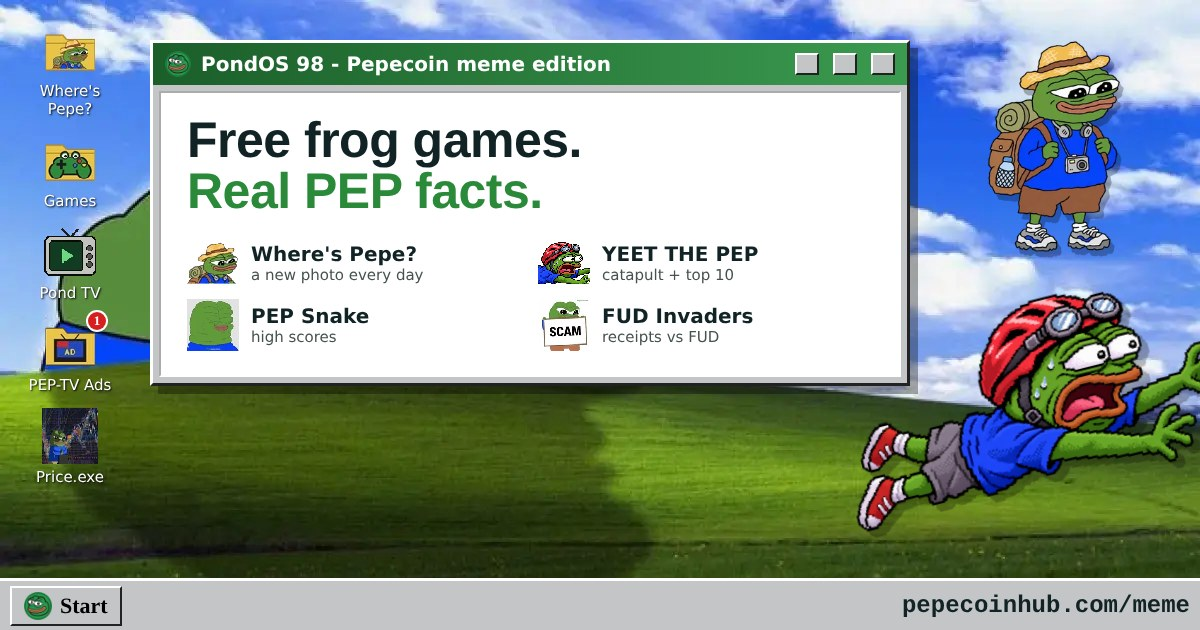
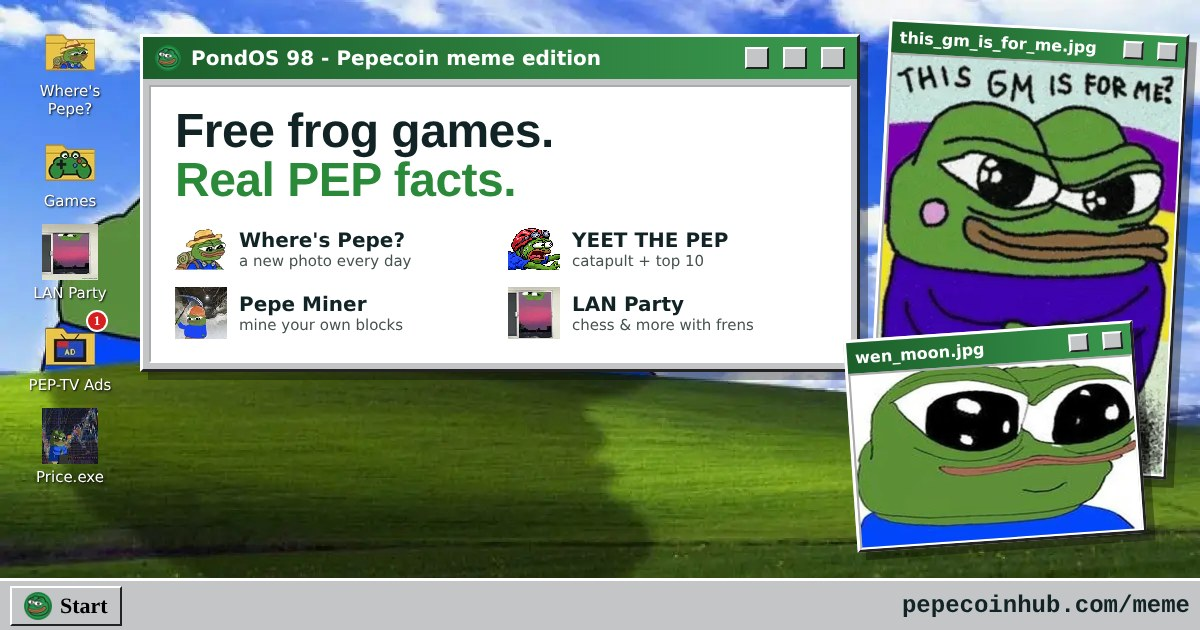
PondOS: memier link preview, top 10 for everyone, Share copies the picture
- link preview: Where's Pepe?, YEET THE PEP, Pepe Miner and LAN Party, with two classic Pepe memes
- score tables (High Scores, Where's Pepe?): Discord players in bold with a small frog, guests in grey,
  with a line that invites to log on
- Where's Pepe? top 10 includes guests (SQL update_wheres_pepe_top_all.sql; guests count once per network)
- YEET THE PEP Share on a computer copies the picture to the clipboard (Ctrl+V in Discord or X);
  saving a file is only the last resort

Claude-Session: https://claude.ai/code/session_01JotvcxFDwTkPbjxt4AqZ4V

diff --git a/docs/meme/meme.js b/docs/meme/meme.js
@@ -1142,16 +1142,24 @@
       }, function (err) { btn.disabled = false; btn.textContent = 'Submit score'; box.querySelector('.hs-err') ? box.querySelector('.hs-err').textContent = err.message : box.appendChild(el('span', { class: 'hs-err' }, esc(err.message))); });
     });
   }
+  // names in score tables: Discord players in bold with a small frog, guests in grey (to make logging on worth it)
+  function who(nick, verified) {
+    return verified ? '<b class="who who-ok" title="Discord player"><img src="img/pep-logo.webp" alt="" width="14" height="14">' + esc(nick) + '</b>'
+      : '<span class="who who-guest" title="Guest">' + esc(nick) + '</span>';
+  }
+  function whoLegend() { return '<p class="who-legend"><b class="who who-ok"><img src="img/pep-logo.webp" alt="" width="14" height="14">Bold</b> = Discord player · <span class="who-guest">grey</span> = guest. <a href="#" class="who-logon">Log on with Discord</a> to get the frog.</p>'; }
+  function wireLegend(box) { var a = box.querySelector('.who-logon'); if (a) a.addEventListener('click', function (e) { e.preventDefault(); logOn(); }); }
   function highScores(game) {
     var A = openApp('hs', 'High Scores', 'gif-061-still', function (A) {
       A.body.innerHTML = '<div class="app-row hs-tabs" role="tablist"><button type="button" class="app-btn" data-g="fud" role="tab">FUD Invaders</button><button type="button" class="app-btn" data-g="snake" role="tab">PEP Snake</button></div>' +
-        '<ol class="bin-list hs-list"><li>Loading…</li></ol><p class="bin-tip">Top 10, best score per player. <span class="hs-ok">✓</span> = signed in with Discord on PEP Games. Scores run in your browser, so the server checks them for plausibility and rate.</p>';
+        '<ol class="bin-list hs-list"><li>Loading…</li></ol>' + whoLegend() + '<p class="bin-tip">Top 10, best score per player. Scores run in your browser, so the server checks them for plausibility and rate.</p>';
+      wireLegend(A.body);
       A.load = function (g) {
         A.game = g;
         A.body.querySelectorAll('[data-g]').forEach(function (b) { b.setAttribute('aria-pressed', String(b.getAttribute('data-g') === g)); });
         var ol = A.body.querySelector('.hs-list'); ol.innerHTML = '<li>Loading…</li>';
         rpc('gry_arcade_top', { p_game: g }).then(function (rows) {
-          ol.innerHTML = rows && rows.length ? rows.map(function (r, i) { return '<li><span>' + (i + 1) + '.</span><span>' + esc(r.nick) + (r.verified ? ' <span class="hs-ok" title="Verified with Discord">✓</span>' : '') + '</span><small>' + fmt.int(r.score) + (g === 'snake' ? ' blocks' : '') + '</small></li>'; }).join('')
+          ol.innerHTML = rows && rows.length ? rows.map(function (r, i) { return '<li><span>' + (i + 1) + '.</span><span>' + who(r.nick, r.verified) + '</span><small>' + fmt.int(r.score) + (g === 'snake' ? ' blocks' : '') + '</small></li>'; }).join('')
             : '<li><span></span><span>No scores yet. Be the first frog.</span><small></small></li>';
         }, function (err) { ol.innerHTML = '<li><span></span><span>' + esc(err.message) + '</span><small></small></li>'; });
       };
@@ -1463,7 +1471,8 @@
     'Play every day to grow your streak (the fire badge).',
     '',
     '== RANKING ==',
-    'Today and the last 7 days, Discord players only.',
+    'Today and the last 7 days, everyone. Discord players: bold with a frog.',
+    'Guests: grey, one per network.',
     'Under it: how many frens played today.',
     '',
     '== PEP FAUCET (free PEP) ==',
@@ -1601,7 +1610,7 @@
           '<p>Pepe sent a new photo. Where is he? You have <b>2 minutes</b> and <b>one guess</b>. The faster, the more points: 5000 in the first minute, then the continent and the flag show up and the maximum drops.</p>' +
           '<p class="wp-small">Leaving the tab during the guess: one warning, then −1000 each time.</p>' +
           (T.signed_in ? '<div class="app-row"><button type="button" class="app-btn wp-start go">▶ Start</button><button type="button" class="app-btn wp-readme">README.TXT</button>' + hostBtn() + '</div>' +
-              (T.verified ? '' : '<p class="wp-small">Playing as a guest (' + esc(me ? me.name : 'guest') + '). <a href="#" class="wp-logon">Log on with Discord</a> for the ranking and bigger PEP rewards.</p>')
+              (T.verified ? '' : '<p class="wp-small">Playing as a guest (' + esc(me ? me.name : 'guest') + '). <a href="#" class="wp-logon">Log on with Discord</a> for a bold name with a frog in the ranking and bigger PEP rewards.</p>')
             : '<div class="app-row"><button type="button" class="app-btn wp-start go">▶ Start</button><button type="button" class="app-btn wp-readme">README.TXT</button></div><p class="wp-small">No account needed: Start makes a guest player for you (after a quick bot check). Or <a href="#" class="wp-logon">log on with Discord</a> for the ranking and bigger PEP rewards.</p>') +
           '<div class="wp-board"></div></div></div>';
         var s = main.querySelector('.wp-start'); if (s) s.addEventListener('click', start);
@@ -1762,12 +1771,13 @@
       };
       var board = function (box) {
         if (!box) return;
-        box.innerHTML = '<div class="tabs98 wp-tabs" role="tablist"><button type="button" role="tab" aria-selected="true" data-s="day">Today</button><button type="button" role="tab" aria-selected="false" data-s="week">7 days</button></div><ol class="wp-top10"><li class="wp-small">Loading…</li></ol>';
+        box.innerHTML = '<div class="tabs98 wp-tabs" role="tablist"><button type="button" role="tab" aria-selected="true" data-s="day">Today</button><button type="button" role="tab" aria-selected="false" data-s="week">7 days</button></div><ol class="wp-top10"><li class="wp-small">Loading…</li></ol>' + whoLegend();
+        wireLegend(box);
         var ol = box.querySelector('ol');
         var show = function (s) {
           box.querySelectorAll('[data-s]').forEach(function (b) { b.setAttribute('aria-selected', String(b.getAttribute('data-s') === s)); });
           wpRpc('gry_wp_top', { p_scope: s }).then(function (rows) {
-            ol.innerHTML = rows.length ? rows.map(function (x) { return '<li><span>' + esc(x.nick) + ' <span class="hs-ok" title="Verified with Discord">✓</span></span><b>' + Number(x.points).toLocaleString('en-US') + '</b></li>'; }).join('')
+            ol.innerHTML = rows.length ? rows.map(function (x) { return '<li><span>' + who(x.nick, x.verified !== false) + '</span><b>' + Number(x.points).toLocaleString('en-US') + '</b></li>'; }).join('')
               : '<li class="wp-small">Nobody yet. Be the first!</li>';
           }, function () { ol.innerHTML = '<li class="wp-small">The ranking could not be loaded.</li>'; });
         };
@@ -1775,7 +1785,7 @@
         show('day');
         var cnt = document.createElement('p'); cnt.className = 'wp-small wp-count'; box.appendChild(cnt);
         wpRpc('gry_wp_count').then(function (c) {
-          if (c && c.players) cnt.textContent = '🐸 ' + c.players + (c.players === 1 ? ' player' : ' players') + ' today (' + c.discord + ' on Discord, the ranking shows Discord players)';
+          if (c && c.players) cnt.textContent = '🐸 ' + c.players + (c.players === 1 ? ' player' : ' players') + ' today (' + c.discord + ' on Discord)';
         }, function () {});
       };
       // leaving the tab during a guess (a short blink under 2 s, like a notification, does not count)

diff --git a/docs/meme/meme.css b/docs/meme/meme.css
@@ -1224,7 +1224,7 @@ footer.foot a { color: #edf3e3; }
 .wp-tabs { margin-top: 4px; }
 .wp-top10 { margin: 0; padding: 6px 8px 6px 28px; background: #fff; color: #000; box-shadow: inset 1px 1px 0 var(--chrome-lo), inset -1px -1px 0 var(--chrome-hi); }
 .wp-top10 li { padding: 2px 0; }
-.wp-top10 li span + b, .wp-top10 li b { float: right; font-variant-numeric: tabular-nums; }
+.wp-top10 li > b { float: right; font-variant-numeric: tabular-nums; }
 .wp-queue, .wp-claims, .wp-paidlist { margin: 0; padding: 0; list-style: none; display: grid; gap: 8px; }
 .wp-queue li, .wp-claims li { display: grid; grid-template-columns: auto minmax(0, 1fr) auto; gap: 6px 10px; align-items: center; padding: 8px; background: #fff; color: #000; }
 .wp-claims li { grid-template-columns: minmax(0, 1fr) auto; }
@@ -1299,3 +1299,11 @@ footer.foot a { color: #edf3e3; }
 .ads-folder button.is-new::after { content: ''; position: absolute; top: 2px; right: 50%; margin-right: -26px; width: 12px; height: 12px; border-radius: 50%; background: #d61f1f; box-shadow: 0 0 0 1.5px #fff; }
 /* "show desktop" keeps the icons standing on the taskbar, as they do with the window open */
 @media (min-width: 1101px) { .pondos.desk-view body .desk, .pondos.desk-empty body .desk { display: flex !important; } }
+/* score tables: Discord players bold with a frog, guests grey */
+.who { display: inline-flex; align-items: center; gap: 4px; max-width: 100%; overflow: hidden; text-overflow: ellipsis; white-space: nowrap; vertical-align: bottom; }
+.who img { flex: none; width: 14px; height: 14px; }
+.who-ok { font-weight: 700; color: inherit; }
+.who-guest { color: #858b90; font-weight: 400; }
+.who-legend { margin: 4px 0 0; font-size: 11px; color: #4a5357; }
+.who-legend a { color: inherit; }
+.wp-top10 li span .who, .hs-list .who { float: none; }

diff --git a/docs/meme/index.html b/docs/meme/index.html
@@ -15,14 +15,14 @@
 <meta property="og:image" content="https://pepecoinhub.com/assets/og-meme-2.jpg">
 <meta property="og:image:width" content="1200">
 <meta property="og:image:height" content="630">
-<meta property="og:image:alt" content="PondOS 98: free frog games (Where's Pepe?, YEET THE PEP, PEP Snake, FUD Invaders) and real PEP facts">
+<meta property="og:image:alt" content="PondOS 98: free frog games (Where's Pepe?, YEET THE PEP, Pepe Miner, LAN Party), Pepe memes and real PEP facts">
 <meta name="twitter:image" content="https://pepecoinhub.com/assets/og-meme-2.jpg">
 <meta name="twitter:card" content="summary_large_image">
 <link rel="icon" href="img/icon.svg" type="image/svg+xml">
 <link rel="preconnect" href="https://fonts.googleapis.com">
 <link rel="preconnect" href="https://fonts.gstatic.com" crossorigin>
 <link rel="stylesheet" href="https://fonts.googleapis.com/css2?family=Figtree:ital,wght@0,400;0,600;0,700;1,400&family=Space+Mono:wght@400;700&family=VT323&display=swap">
-<link rel="stylesheet" href="meme.css?v=20261103arc">
+<link rel="stylesheet" href="meme.css?v=20261103who">
 <script>try{var th=localStorage.getItem('phw-theme');if(th==='light'||th==='dark')document.documentElement.setAttribute('data-theme',th)}catch(e){}</script>
 <script data-goatcounter="https://pepecoinhub.goatcounter.com/count" async src="https://gc.zgo.at/count.js"></script>
 </head>
@@ -296,7 +296,7 @@
 
 <footer class="foot"></footer>
 <script src="../prices.js?v=20261031data1"></script>
-<script src="meme.js?v=20261103arc"></script>
+<script src="meme.js?v=20261103who"></script>
 <script>
 (function () {
   var M = window.Meme, f = M.fmt;

diff --git a/docs/games/yeet.html b/docs/games/yeet.html
@@ -5,7 +5,7 @@
 <meta name="referrer" content="strict-origin-when-cross-origin"><title>YEET THE PEP: retro frog-launching arcade | Pepecoin Hub</title>
 <meta name="description" content="Launch Pepe, catch a trampoline and panic-flap your way to a new record. Free retro arcade game with Discord records and an all-time top 10.">
 <link rel="canonical" href="https://pepecoinhub.com/games/yeet.html"><link rel="icon" href="../meme/img/pep-logo.webp">
-<link rel="stylesheet" href="yeet.css?v=20261102c"><script src="js/config.js"></script><script type="module" src="js/yeet.mjs?v=20261103s"></script>
+<link rel="stylesheet" href="yeet.css?v=20261102c"><script src="js/config.js"></script><script type="module" src="js/yeet.mjs?v=20261103c"></script>
 </head><body>
 <header class="site-bar"><a href="../meme/">← Pepecoin Hub</a><span>FREN SOFTWARE · EST. SOME TIME AGO</span><a href="index.html">More games ↗</a></header>
 <main class="desktop"><div class="desktop-label"><span class="logo">YEET THE PEP<span>THE UNOFFICIAL SPACE PROGRAM</span></span><span class="disk-label">100% FREEWARE<br>0% AEROSPACE QUALIFICATIONS</span></div>

diff --git a/docs/meme/mining.html b/docs/meme/mining.html
@@ -10,7 +10,7 @@
 <link rel="preconnect" href="https://fonts.googleapis.com">
 <link rel="preconnect" href="https://fonts.gstatic.com" crossorigin>
 <link rel="stylesheet" href="https://fonts.googleapis.com/css2?family=Figtree:ital,wght@0,400;0,600;0,700;1,400&family=Space+Mono:wght@400;700&family=VT323&display=swap">
-<link rel="stylesheet" href="meme.css?v=20261103arc">
+<link rel="stylesheet" href="meme.css?v=20261103who">
 <style>
 .coin-chips { list-style: none; padding: 0; display: flex; flex-wrap: wrap; gap: 10px; }
 .coin-chips li { display: inline-flex; align-items: center; gap: 8px; padding: 6px 12px 6px 6px; border: 2.5px solid var(--line); border-radius: 999px; background: var(--card); font-weight: 700; box-shadow: 3px 3px 0 var(--hard); }
@@ -213,7 +213,7 @@
 
 <footer class="foot"></footer>
 <script src="../prices.js?v=20261031data1"></script>
-<script src="meme.js?v=20261103arc"></script>
+<script src="meme.js?v=20261103who"></script>
 <script>
 (function () {
   // same arithmetic as the serious page (mining-calc.js): share of the network hashrate x blocks a day x 10,000 PEP, minus the pool fee

diff --git a/docs/meme/which-pepecoin.html b/docs/meme/which-pepecoin.html
@@ -10,7 +10,7 @@
 <link rel="preconnect" href="https://fonts.googleapis.com">
 <link rel="preconnect" href="https://fonts.gstatic.com" crossorigin>
 <link rel="stylesheet" href="https://fonts.googleapis.com/css2?family=Figtree:ital,wght@0,400;0,600;0,700;1,400&family=Space+Mono:wght@400;700&family=VT323&display=swap">
-<link rel="stylesheet" href="meme.css?v=20261103arc">
+<link rel="stylesheet" href="meme.css?v=20261103who">
 <style>
 [hidden] { display: none !important; }
 code { font: 700 0.92em/1.3 var(--f-mono); background: var(--paper); border: 1.5px solid color-mix(in srgb, var(--line) 30%, transparent); border-radius: 6px; padding: 1px 5px; overflow-wrap: anywhere; }
@@ -223,7 +223,7 @@ code { font: 700 0.92em/1.3 var(--f-mono); background: var(--paper); border: 1.5
 
 <footer class="foot"></footer>
 <script src="../prices.js?v=20261031data1"></script>
-<script src="meme.js?v=20261103arc"></script>
+<script src="meme.js?v=20261103who"></script>
 <script>
 (function () {
   // copy buttons for the contract addresses

diff --git a/docs/meme/calculator.html b/docs/meme/calculator.html
@@ -10,7 +10,7 @@
 <link rel="preconnect" href="https://fonts.googleapis.com">
 <link rel="preconnect" href="https://fonts.gstatic.com" crossorigin>
 <link rel="stylesheet" href="https://fonts.googleapis.com/css2?family=Figtree:ital,wght@0,400;0,600;0,700;1,400&family=Space+Mono:wght@400;700&family=VT323&display=swap">
-<link rel="stylesheet" href="meme.css?v=20261103arc">
+<link rel="stylesheet" href="meme.css?v=20261103who">
 <script>try{var th=localStorage.getItem('phw-theme');if(th==='light'||th==='dark')document.documentElement.setAttribute('data-theme',th)}catch(e){}</script>
 <style>
 [hidden] { display: none !important; }
@@ -243,7 +243,7 @@ th.plain { font: 700 0.95rem var(--f-body); text-transform: none; letter-spacing
 
 <footer class="foot"></footer>
 <script src="../prices.js?v=20261031data1"></script>
-<script src="meme.js?v=20261103arc"></script>
+<script src="meme.js?v=20261103who"></script>
 <script src="../live.js?v=20261012d" defer></script>
 <script>
 (function () {

diff --git a/docs/meme/price.html b/docs/meme/price.html
@@ -10,7 +10,7 @@
 <link rel="preconnect" href="https://fonts.googleapis.com">
 <link rel="preconnect" href="https://fonts.gstatic.com" crossorigin>
 <link rel="stylesheet" href="https://fonts.googleapis.com/css2?family=Figtree:ital,wght@0,400;0,600;0,700;1,400&family=Space+Mono:wght@400;700&family=VT323&display=swap">
-<link rel="stylesheet" href="meme.css?v=20261103arc">
+<link rel="stylesheet" href="meme.css?v=20261103who">
 <script>try{var th=localStorage.getItem('phw-theme');if(th==='light'||th==='dark')document.documentElement.setAttribute('data-theme',th)}catch(e){}</script>
 <style>
 [hidden] { display: none !important; }
@@ -283,7 +283,7 @@ img.pow-logo { background: #fff; }
 
 <footer class="foot"></footer>
 <script src="../prices.js?v=20261031data1"></script>
-<script src="meme.js?v=20261103arc"></script>
+<script src="meme.js?v=20261103who"></script>
 <script src="../live.js?v=20261012d" defer></script>
 <script src="../price.js?v=20261031data1" defer></script>
 <script>

diff --git a/docs/meme/compare.html b/docs/meme/compare.html
@@ -10,7 +10,7 @@
 <link rel="preconnect" href="https://fonts.googleapis.com">
 <link rel="preconnect" href="https://fonts.gstatic.com" crossorigin>
 <link rel="stylesheet" href="https://fonts.googleapis.com/css2?family=Figtree:ital,wght@0,400;0,600;0,700;1,400&family=Space+Mono:wght@400;700&family=VT323&display=swap">
-<link rel="stylesheet" href="meme.css?v=20261103arc">
+<link rel="stylesheet" href="meme.css?v=20261103who">
 <style>
 [hidden] { display: none !important; }
 code { font: 700 0.95em/1.3 var(--f-mono); background: var(--paper); border: 1.5px solid color-mix(in srgb, var(--line) 30%, transparent); border-radius: 6px; padding: 1px 6px; }
@@ -267,7 +267,7 @@ code { font: 700 0.95em/1.3 var(--f-mono); background: var(--paper); border: 1.5
 
 <footer class="foot"></footer>
 <script src="../prices.js?v=20261031data1"></script>
-<script src="meme.js?v=20261103arc"></script>
+<script src="meme.js?v=20261103who"></script>
 <script>
 (function () {
   'use strict';

diff --git a/docs/meme/buy.html b/docs/meme/buy.html
@@ -10,7 +10,7 @@
 <link rel="preconnect" href="https://fonts.googleapis.com">
 <link rel="preconnect" href="https://fonts.gstatic.com" crossorigin>
 <link rel="stylesheet" href="https://fonts.googleapis.com/css2?family=Figtree:ital,wght@0,400;0,600;0,700;1,400&family=Space+Mono:wght@400;700&family=VT323&display=swap">
-<link rel="stylesheet" href="meme.css?v=20261103arc">
+<link rel="stylesheet" href="meme.css?v=20261103who">
 <style>
 .svc td:first-child a { font-weight: 800; }
 .kind { display: inline-block; font: 700 0.72rem/1.6 var(--f-mono); text-transform: uppercase; letter-spacing: 0.04em; padding: 0 7px; border: 2px solid var(--line); border-radius: 6px; background: var(--paper); white-space: nowrap; }
@@ -132,6 +132,6 @@
 
 <footer class="foot"></footer>
 <script src="../prices.js?v=20261031data1"></script>
-<script src="meme.js?v=20261103arc"></script>
+<script src="meme.js?v=20261103who"></script>
 </body>
 </html>

diff --git a/docs/meme/supply.html b/docs/meme/supply.html
@@ -10,7 +10,7 @@
 <link rel="preconnect" href="https://fonts.googleapis.com">
 <link rel="preconnect" href="https://fonts.gstatic.com" crossorigin>
 <link rel="stylesheet" href="https://fonts.googleapis.com/css2?family=Figtree:ital,wght@0,400;0,600;0,700;1,400&family=Space+Mono:wght@400;700&family=VT323&display=swap">
-<link rel="stylesheet" href="meme.css?v=20261103arc">
+<link rel="stylesheet" href="meme.css?v=20261103who">
 <script>try{var th=localStorage.getItem('phw-theme');if(th==='light'||th==='dark')document.documentElement.setAttribute('data-theme',th)}catch(e){}</script>
 <style>
 [hidden] { display: none !important; }
@@ -279,7 +279,7 @@
 
 <footer class="foot"></footer>
 <script src="../prices.js?v=20261031data1"></script>
-<script src="meme.js?v=20261103arc"></script>
+<script src="meme.js?v=20261103who"></script>
 <script src="../live.js?v=20261012d" defer></script>
 <script>
 (function () {

diff --git a/docs/meme/glossary.html b/docs/meme/glossary.html
@@ -10,7 +10,7 @@
 <link rel="preconnect" href="https://fonts.googleapis.com">
 <link rel="preconnect" href="https://fonts.gstatic.com" crossorigin>
 <link rel="stylesheet" href="https://fonts.googleapis.com/css2?family=Figtree:ital,wght@0,400;0,600;0,700;1,400&family=Space+Mono:wght@400;700&family=VT323&display=swap">
-<link rel="stylesheet" href="meme.css?v=20261103arc">
+<link rel="stylesheet" href="meme.css?v=20261103who">
 <style>
 .terms { display: grid; grid-template-columns: repeat(auto-fill, minmax(min(100%, 320px), 1fr)); gap: 20px; }
 .term { display: grid; gap: 8px; align-content: start; padding: 18px 20px; scroll-margin-top: 100px; min-width: 0; }
@@ -102,6 +102,6 @@
 
 <footer class="foot"></footer>
 <script src="../prices.js?v=20261031data1"></script>
-<script src="meme.js?v=20261103arc"></script>
+<script src="meme.js?v=20261103who"></script>
 </body>
 </html>
